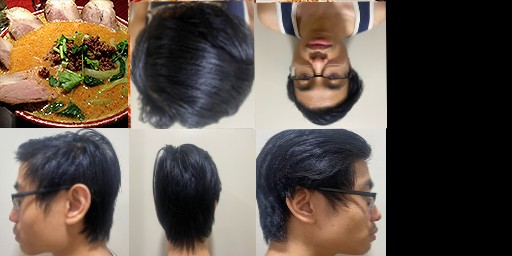
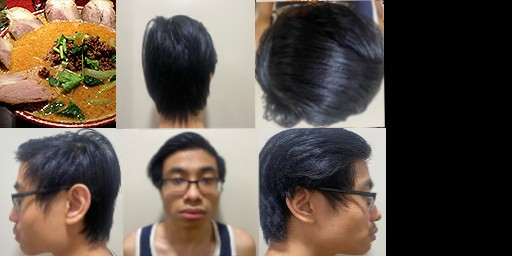
Verifying

diff --git a/Assignment6/Assignment6/Assignment6.js b/Assignment6/Assignment6/Assignment6.js
@@ -6,10 +6,50 @@ var numPositions  = 36;
 var texSize = 64;
 var program;
 var positionsArray = new Float32Array([
+    -0.5, -0.5,  -0.5,
+    -0.5,  0.5,  -0.5,
+     0.5, -0.5,  -0.5,
+    -0.5,  0.5,  -0.5,
+     0.5,  0.5,  -0.5,
+     0.5, -0.5,  -0.5,
 
-    //Write your code
+    -0.5, -0.5,   0.5,
+     0.5, -0.5,   0.5,
+    -0.5,  0.5,   0.5,
+    -0.5,  0.5,   0.5,
+     0.5, -0.5,   0.5,
+     0.5,  0.5,   0.5,
+
+    -0.5,   0.5, -0.5,
+    -0.5,   0.5,  0.5,
+     0.5,   0.5, -0.5,
+    -0.5,   0.5,  0.5,
+     0.5,   0.5,  0.5,
+     0.5,   0.5, -0.5,
+
+    -0.5,  -0.5, -0.5,
+     0.5,  -0.5, -0.5,
+    -0.5,  -0.5,  0.5,
+    -0.5,  -0.5,  0.5,
+     0.5,  -0.5, -0.5,
+     0.5,  -0.5,  0.5,
+
+    -0.5,  -0.5, -0.5,
+    -0.5,  -0.5,  0.5,
+    -0.5,   0.5, -0.5,
+    -0.5,  -0.5,  0.5,
+    -0.5,   0.5,  0.5,
+    -0.5,   0.5, -0.5,
+
+     0.5,  -0.5, -0.5,
+     0.5,   0.5, -0.5,
+     0.5,  -0.5,  0.5,
+     0.5,  -0.5,  0.5,
+     0.5,   0.5, -0.5,
+     0.5,   0.5,  0.5,
 
 ]);
+
 var texCoordsArray = new Float32Array([
     // select the top left image
     0   , 0  ,
@@ -43,7 +83,7 @@ var texCoordsArray = new Float32Array([
     0.25, 0.5,
     0.25, 1  ,
 
-    //Write your code
+
 
     // select the bottom middle image
     0.25, 0.5,
@@ -54,7 +94,7 @@ var texCoordsArray = new Float32Array([
     0.5 , 0.5,
     // select the bottom right image
 
-    //Write your code
+
     0.5 , 0.5,
     0.75, 0.5,
     0.5 , 1  ,
@@ -73,7 +113,7 @@ var normalsArray = [
     vec3(0.0, 0.0, 1.0),
     //back
 
-    //Write your code
+
 
     vec3(0.0, 0.0, -1.0),
     vec3(0.0, 0.0, -1.0),
@@ -91,7 +131,6 @@ var normalsArray = [
     vec3(0.0, 1, 0.0),
     // Bottom
 
-    //Write your code
     vec3(0.0, -1, 0.0),
     vec3(0.0, -1, 0.0),
     vec3(0.0, -1, 0.0),
@@ -106,7 +145,7 @@ var normalsArray = [
     vec3(1.0, 0.0, 0.0),
     vec3(1.0, 0.0, 0.0),
     //left
-    //Write your code
+
     vec3(-1.0, 0.0, 0.0),
     vec3(-1.0, 0.0, 0.0),
     vec3(-1.0, 0.0, 0.0),
@@ -130,7 +169,7 @@ var projectionMatrix;
 var modelViewMatrix;
 var cubes = [
 
-    //Write your code (two translates)
+
     //translate(?, 0, ?),
     //translate(?, 0, ?)
 
@@ -198,10 +237,10 @@ window.onload = function init(){
     projectionMatrixLoc = gl.getUniformLocation(program, "uProjectionMatrix");
    
     //set the perspective projection
-    var fieldOfView = 0; //Change the value
+    var fieldOfView = 70.0; //Change the value
     var aspect = canvas.width/canvas.height;
-    var zNear = 0.0; //Change the value
-    var zFar = 0; //Change the value
+    var zNear = 1; //Change the value
+    var zFar = 2000; //Change the value
     projectionMatrix = perspective(fieldOfView, aspect, zNear, zFar);
 
     //set the model-view matrix
@@ -236,7 +275,7 @@ function configureTexture(image){
 function render(){
     gl.clear(gl.COLOR_BUFFER_BIT | gl.DEPTH_BUFFER_BIT);
     if(flag){
-        theta[axis] += 0.0;  //Change the value
+        theta[axis] += 2.0;  //Change the value
     }
     //rotating the light
     lightPosition[0] = 5.5 * Math.sin(0.02 * time);
